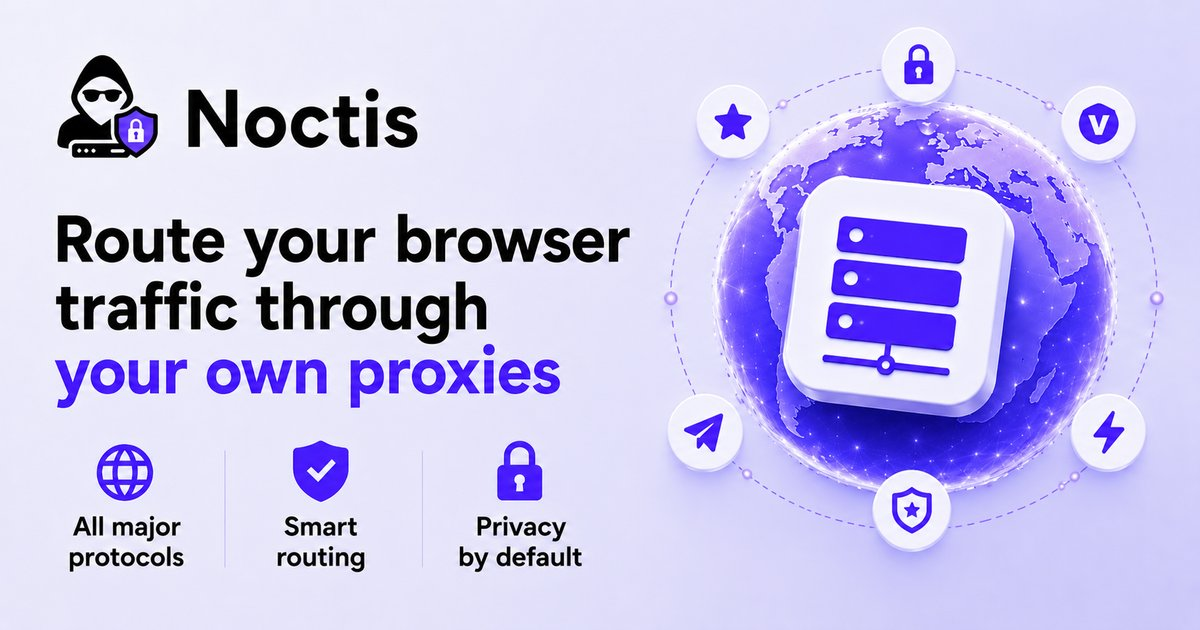
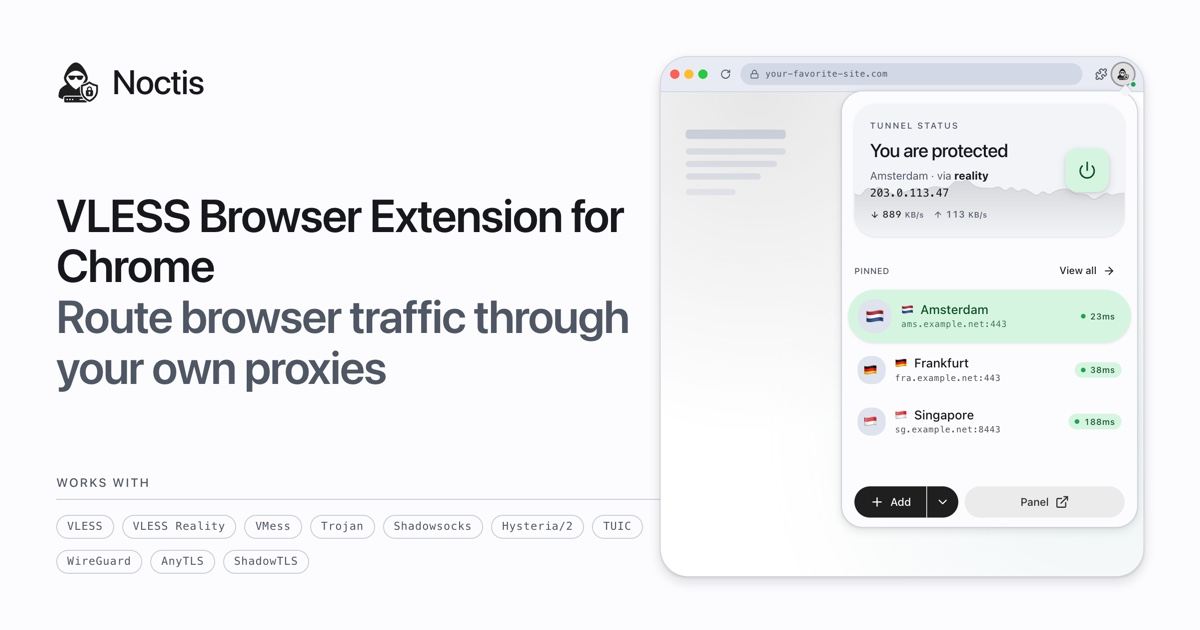
release(0.3.3): animated readme demo + rebuilt og card
### Features
- The README hero is now an animated demo of the extension - connect, live server switch, routing profile, accent re-tint - in dark and light variants that follow the viewer's color scheme.
- The social preview card (og:image) is rebuilt from the live site styles: logo, hero headline, supported-protocol badges, and the browser mock.

diff --git a/README.ar.md b/README.ar.md
@@ -18,7 +18,10 @@
 </p>
 
 <p align="center">
-  <img alt="Noctis home" src="./site/media/screenshots/home.png" width="720">
+  <picture>
+    <source media="(prefers-color-scheme: dark)" srcset="./site/media/demo-dark.gif">
+    <img alt="Noctis demo" src="./site/media/demo-light.gif" width="720">
+  </picture>
 </p>
 
 > [!IMPORTANT]

diff --git a/README.es.md b/README.es.md
@@ -18,7 +18,10 @@
 </p>
 
 <p align="center">
-  <img alt="Noctis home" src="./site/media/screenshots/home.png" width="720">
+  <picture>
+    <source media="(prefers-color-scheme: dark)" srcset="./site/media/demo-dark.gif">
+    <img alt="Noctis demo" src="./site/media/demo-light.gif" width="720">
+  </picture>
 </p>
 
 > [!IMPORTANT]

diff --git a/README.fa.md b/README.fa.md
@@ -18,7 +18,10 @@
 </p>
 
 <p align="center">
-  <img alt="Noctis home" src="./site/media/screenshots/home.png" width="720">
+  <picture>
+    <source media="(prefers-color-scheme: dark)" srcset="./site/media/demo-dark.gif">
+    <img alt="Noctis demo" src="./site/media/demo-light.gif" width="720">
+  </picture>
 </p>
 
 > [!IMPORTANT]

diff --git a/README.md b/README.md
@@ -18,7 +18,10 @@
 </p>
 
 <p align="center">
-  <img alt="Noctis home" src="./site/media/screenshots/home.png" width="720">
+  <picture>
+    <source media="(prefers-color-scheme: dark)" srcset="./site/media/demo-dark.gif">
+    <img alt="Noctis demo" src="./site/media/demo-light.gif" width="720">
+  </picture>
 </p>
 
 > [!IMPORTANT]

diff --git a/README.ru.md b/README.ru.md
@@ -18,7 +18,10 @@
 </p>
 
 <p align="center">
-  <img alt="Noctis home" src="./site/media/screenshots/home.png" width="720">
+  <picture>
+    <source media="(prefers-color-scheme: dark)" srcset="./site/media/demo-dark.gif">
+    <img alt="Noctis demo" src="./site/media/demo-light.gif" width="720">
+  </picture>
 </p>
 
 > [!IMPORTANT]

diff --git a/README.zh-CN.md b/README.zh-CN.md
@@ -18,7 +18,10 @@
 </p>
 
 <p align="center">
-  <img alt="Noctis home" src="./site/media/screenshots/home.png" width="720">
+  <picture>
+    <source media="(prefers-color-scheme: dark)" srcset="./site/media/demo-dark.gif">
+    <img alt="Noctis demo" src="./site/media/demo-light.gif" width="720">
+  </picture>
 </p>
 
 > [!IMPORTANT]